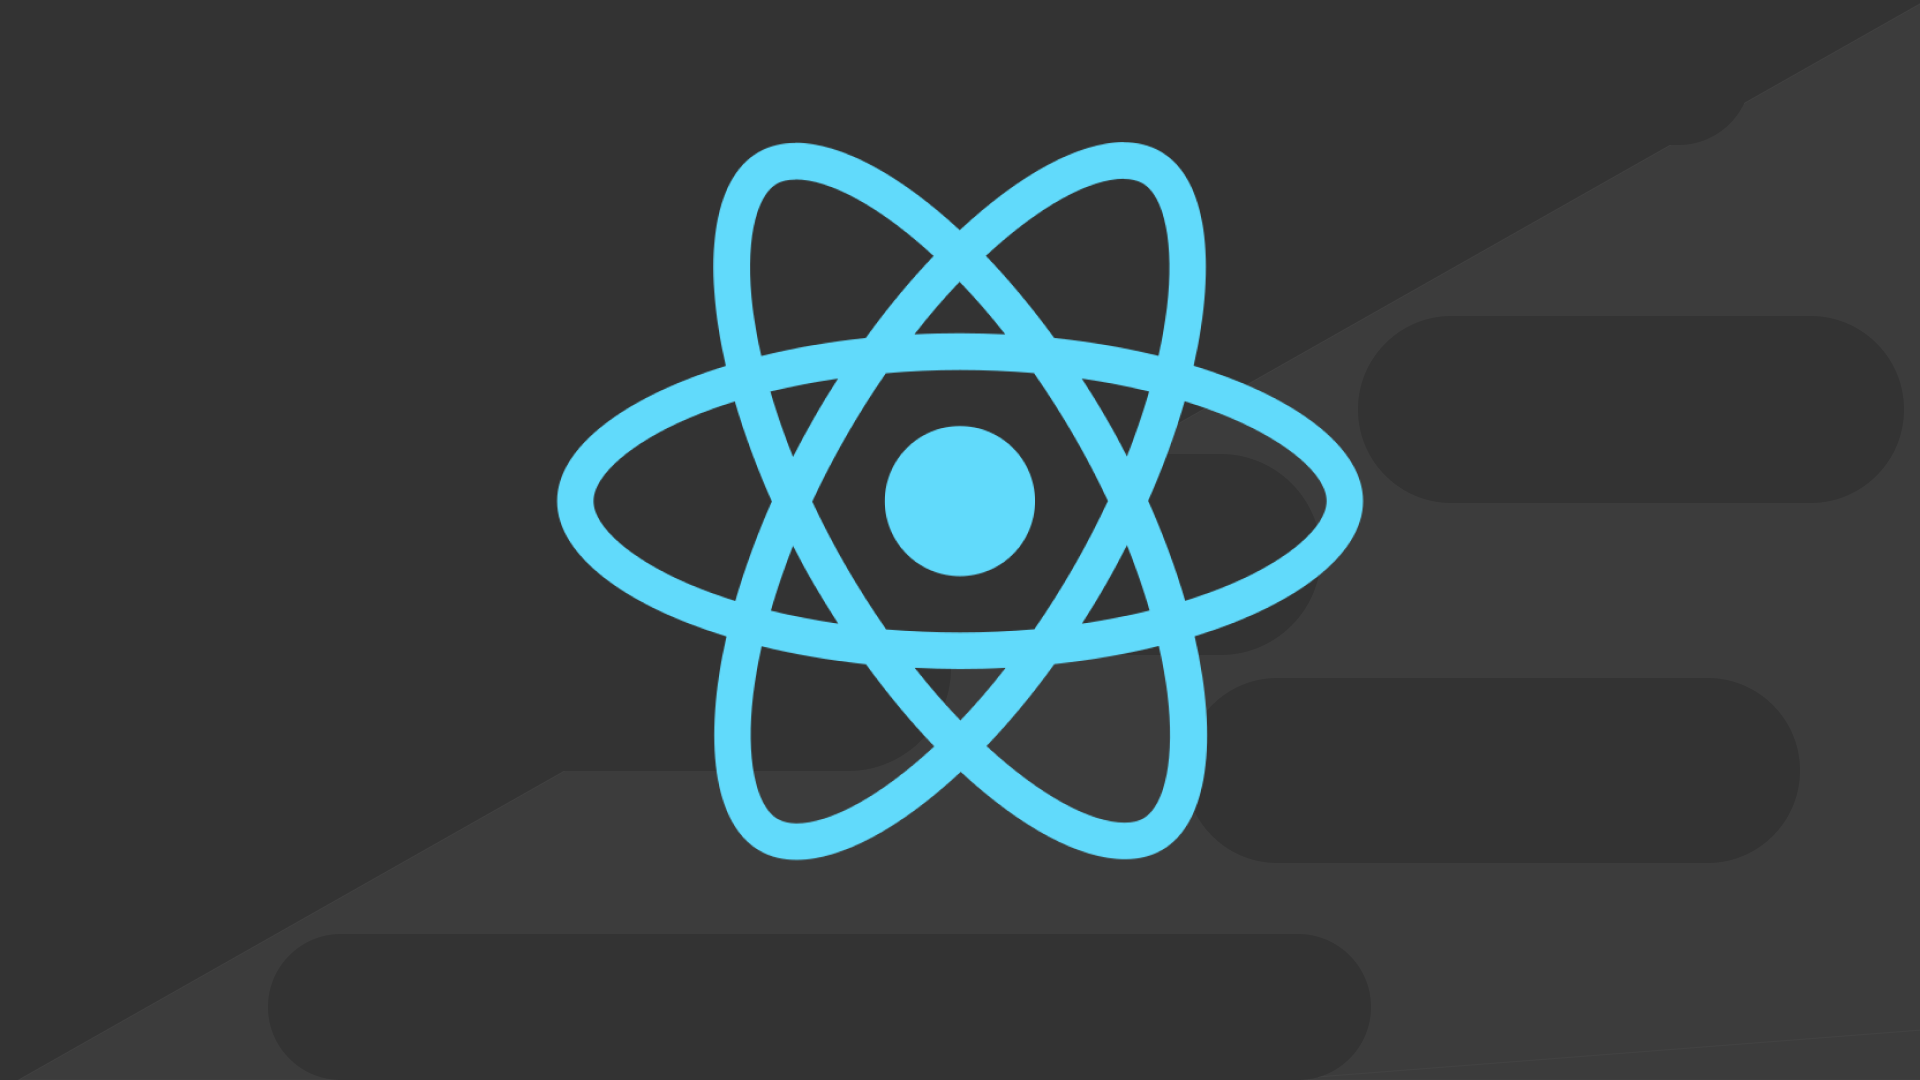
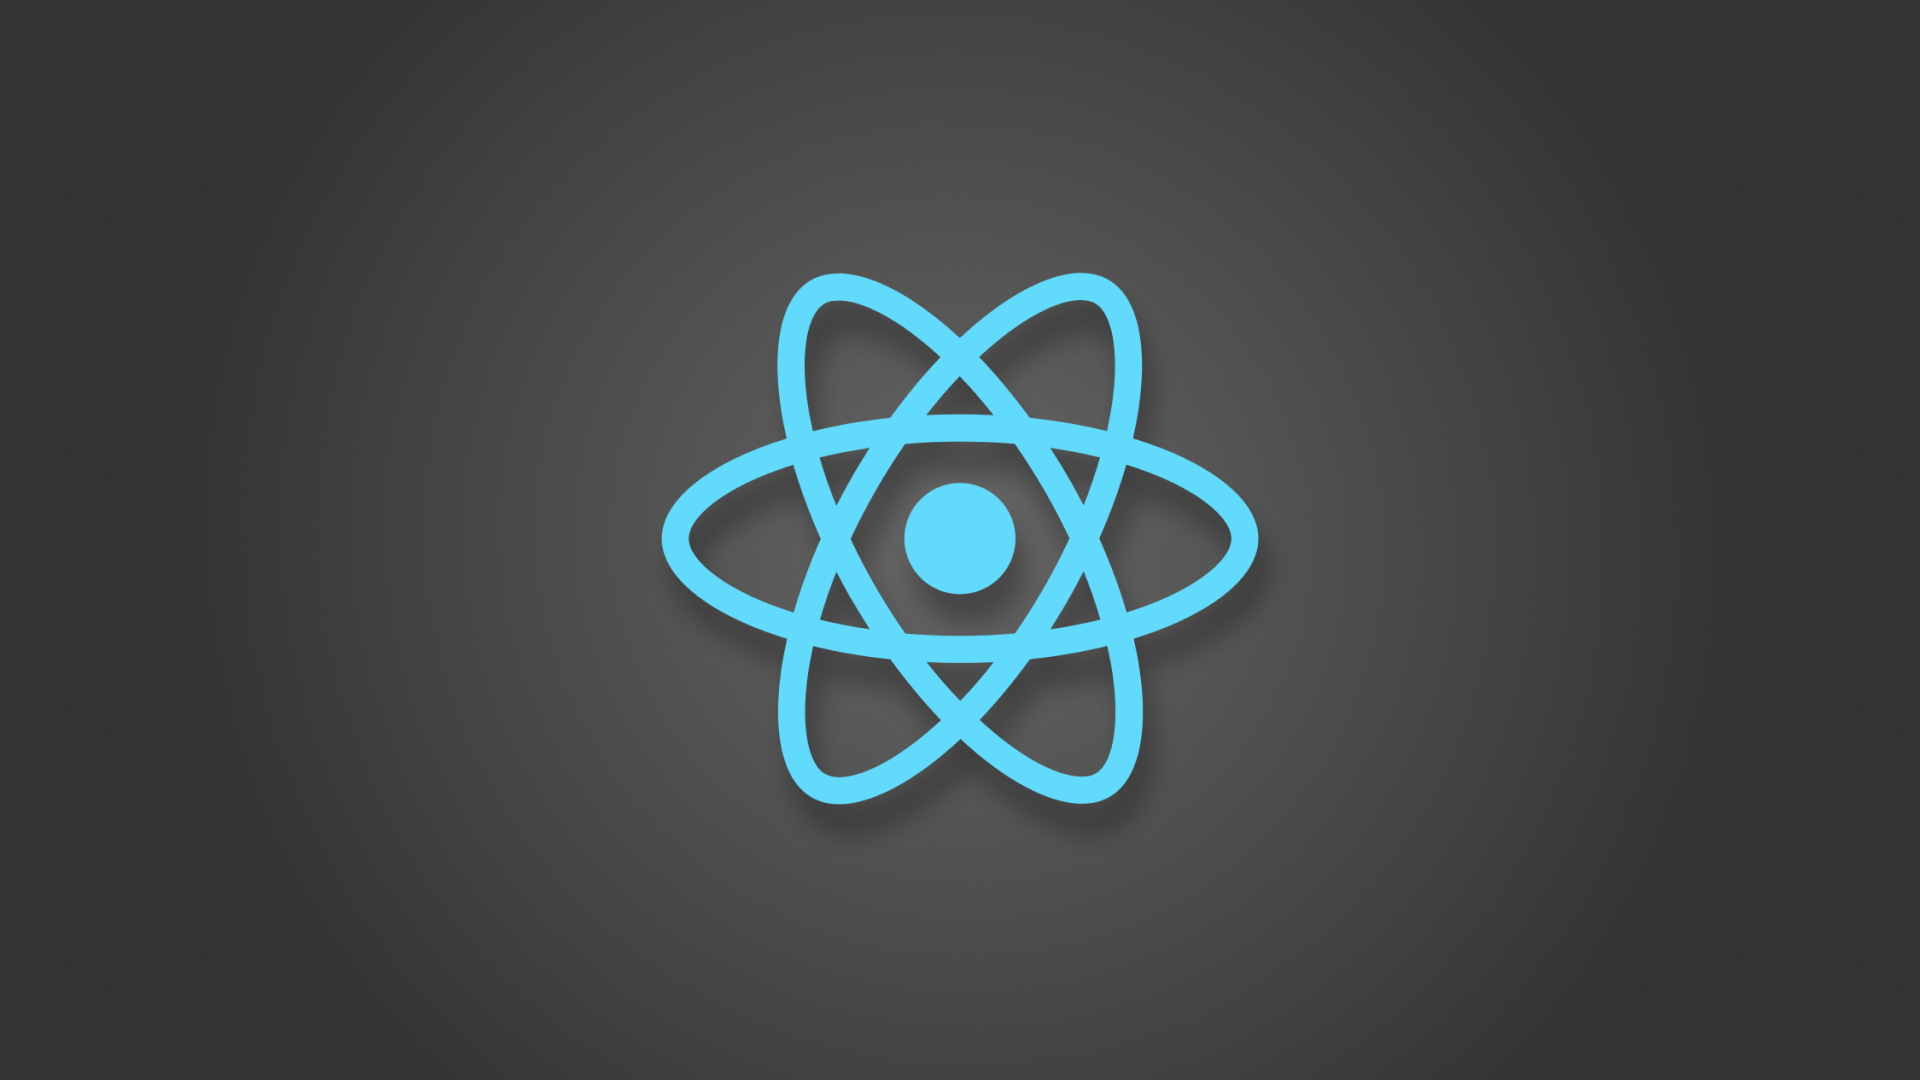
wip: thumbnails

Changed region(s): [[0.2812, 0.1222, 0.7188, 0.7944], [0.4688, 0.8556, 0.5625, 0.8861]]

diff --git a/awards/list.ts b/awards/list.ts
@@ -4,7 +4,7 @@ export default [
     quizId: 1,
     text: "Completed CSS For Begginers Quiz",
     date: new Date(),
-    image: require("../assets/images/quizes/css.png"),
+    image: require("../assets/images/awards/css-thumbnail.png"),
   },
   {
     id: 2,
